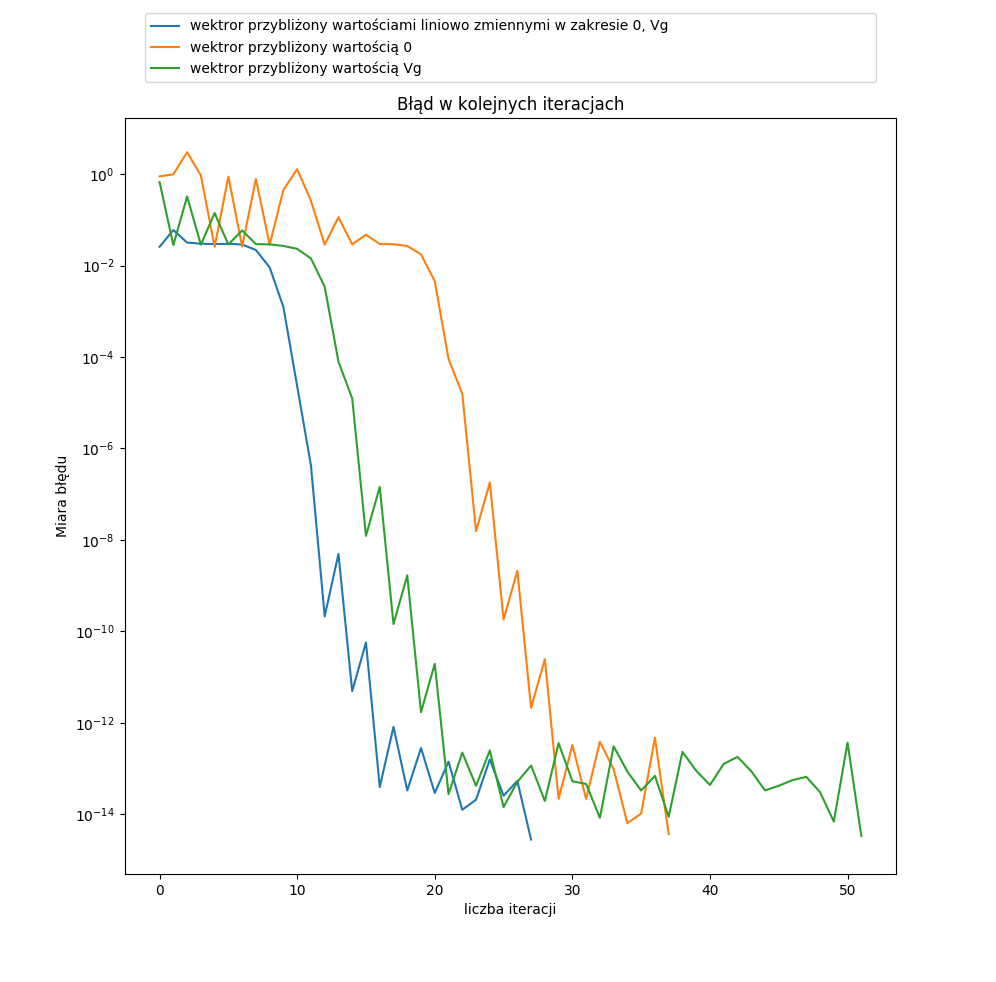
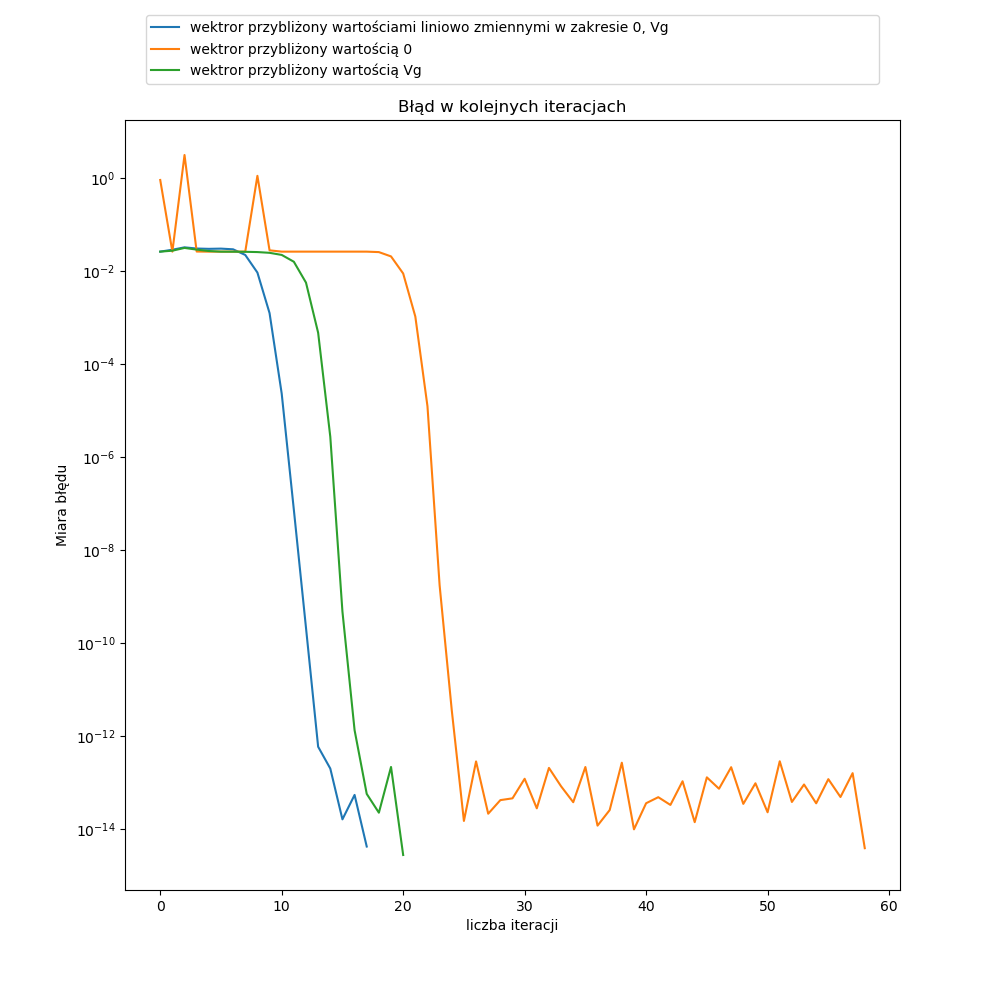
Warunki brzegowy fix: + usuniecie warunku brzegowego na środek struktury poprawia charakterystykę + Poprawione wykresy w Wyniki/ + parę kosmetycznych poprawek

diff --git a/mobi.py b/mobi.py
@@ -84,7 +84,6 @@ class N_method:
 
             # Warunki brzegowe dla prawej strony równania macierzowego
             R[0] = Vg
-            R[-1] = 0
 
             # Rozwiązanie liniowego równania macierzowego
             psi_prev_iter = psi
@@ -98,21 +97,22 @@ class N_method:
             self.eps_per_iter.append(self.eps)
             self.steps_c += 1
 
-p1=N_method(aprox_vector=psi)
+
+p1 = N_method(aprox_vector=psi)
 p1.run()
 
-p_0=N_method(aprox_vector=psi_0)
+p_0 = N_method(aprox_vector=psi_0)
 p_0.run()
 
-p_Vg=N_method(aprox_vector=psi_Vg)
+p_Vg = N_method(aprox_vector=psi_Vg)
 p_Vg.run()
 
 # Wykreślenie potencjału elektrostatycznego w funkcji y
 # Dla kilku iteracjii
 plt.figure(1)
 x = np.linspace(0, 16, 2*Nx)
-for i in np.arange(0,int(p1.steps_c/2), 2):
-    plt.plot(x,p1.psi_per_iter[i], label="iteracja "+str(i+1))
+for i in np.arange(0, int(p1.steps_c/2), 2):
+    plt.plot(x, p1.psi_per_iter[i], label="iteracja "+str(i+1))
 
 plt.legend(bbox_to_anchor=(0., 1.02, 1., .102), loc='lower left',
            ncol=4, mode="expand", borderaxespad=1.5)
@@ -124,9 +124,9 @@ plt.ylabel('rozkład   potencjału  ψ [V]')
 
 # Wykreślenie błędu w kolejnych iteracjach
 plt.figure(2)
-plt.semilogy(p1.eps_per_iter, label = "wektror przybliżony wartościami liniowo zmiennymi w zakresie 0, Vg")
-plt.semilogy(p_0.eps_per_iter,label =  "wektror przybliżony wartością 0")
-plt.semilogy(p_Vg.eps_per_iter, label = "wektror przybliżony wartością Vg")
+plt.semilogy(p1.eps_per_iter, label="wektror przybliżony wartościami liniowo zmiennymi w zakresie 0, Vg")
+plt.semilogy(p_0.eps_per_iter, label="wektror przybliżony wartością 0")
+plt.semilogy(p_Vg.eps_per_iter, label="wektror przybliżony wartością Vg")
 plt.title('Błąd w kolejnych iteracjach')
 plt.xlabel('liczba iteracji')
 plt.ylabel('Miara błędu')
